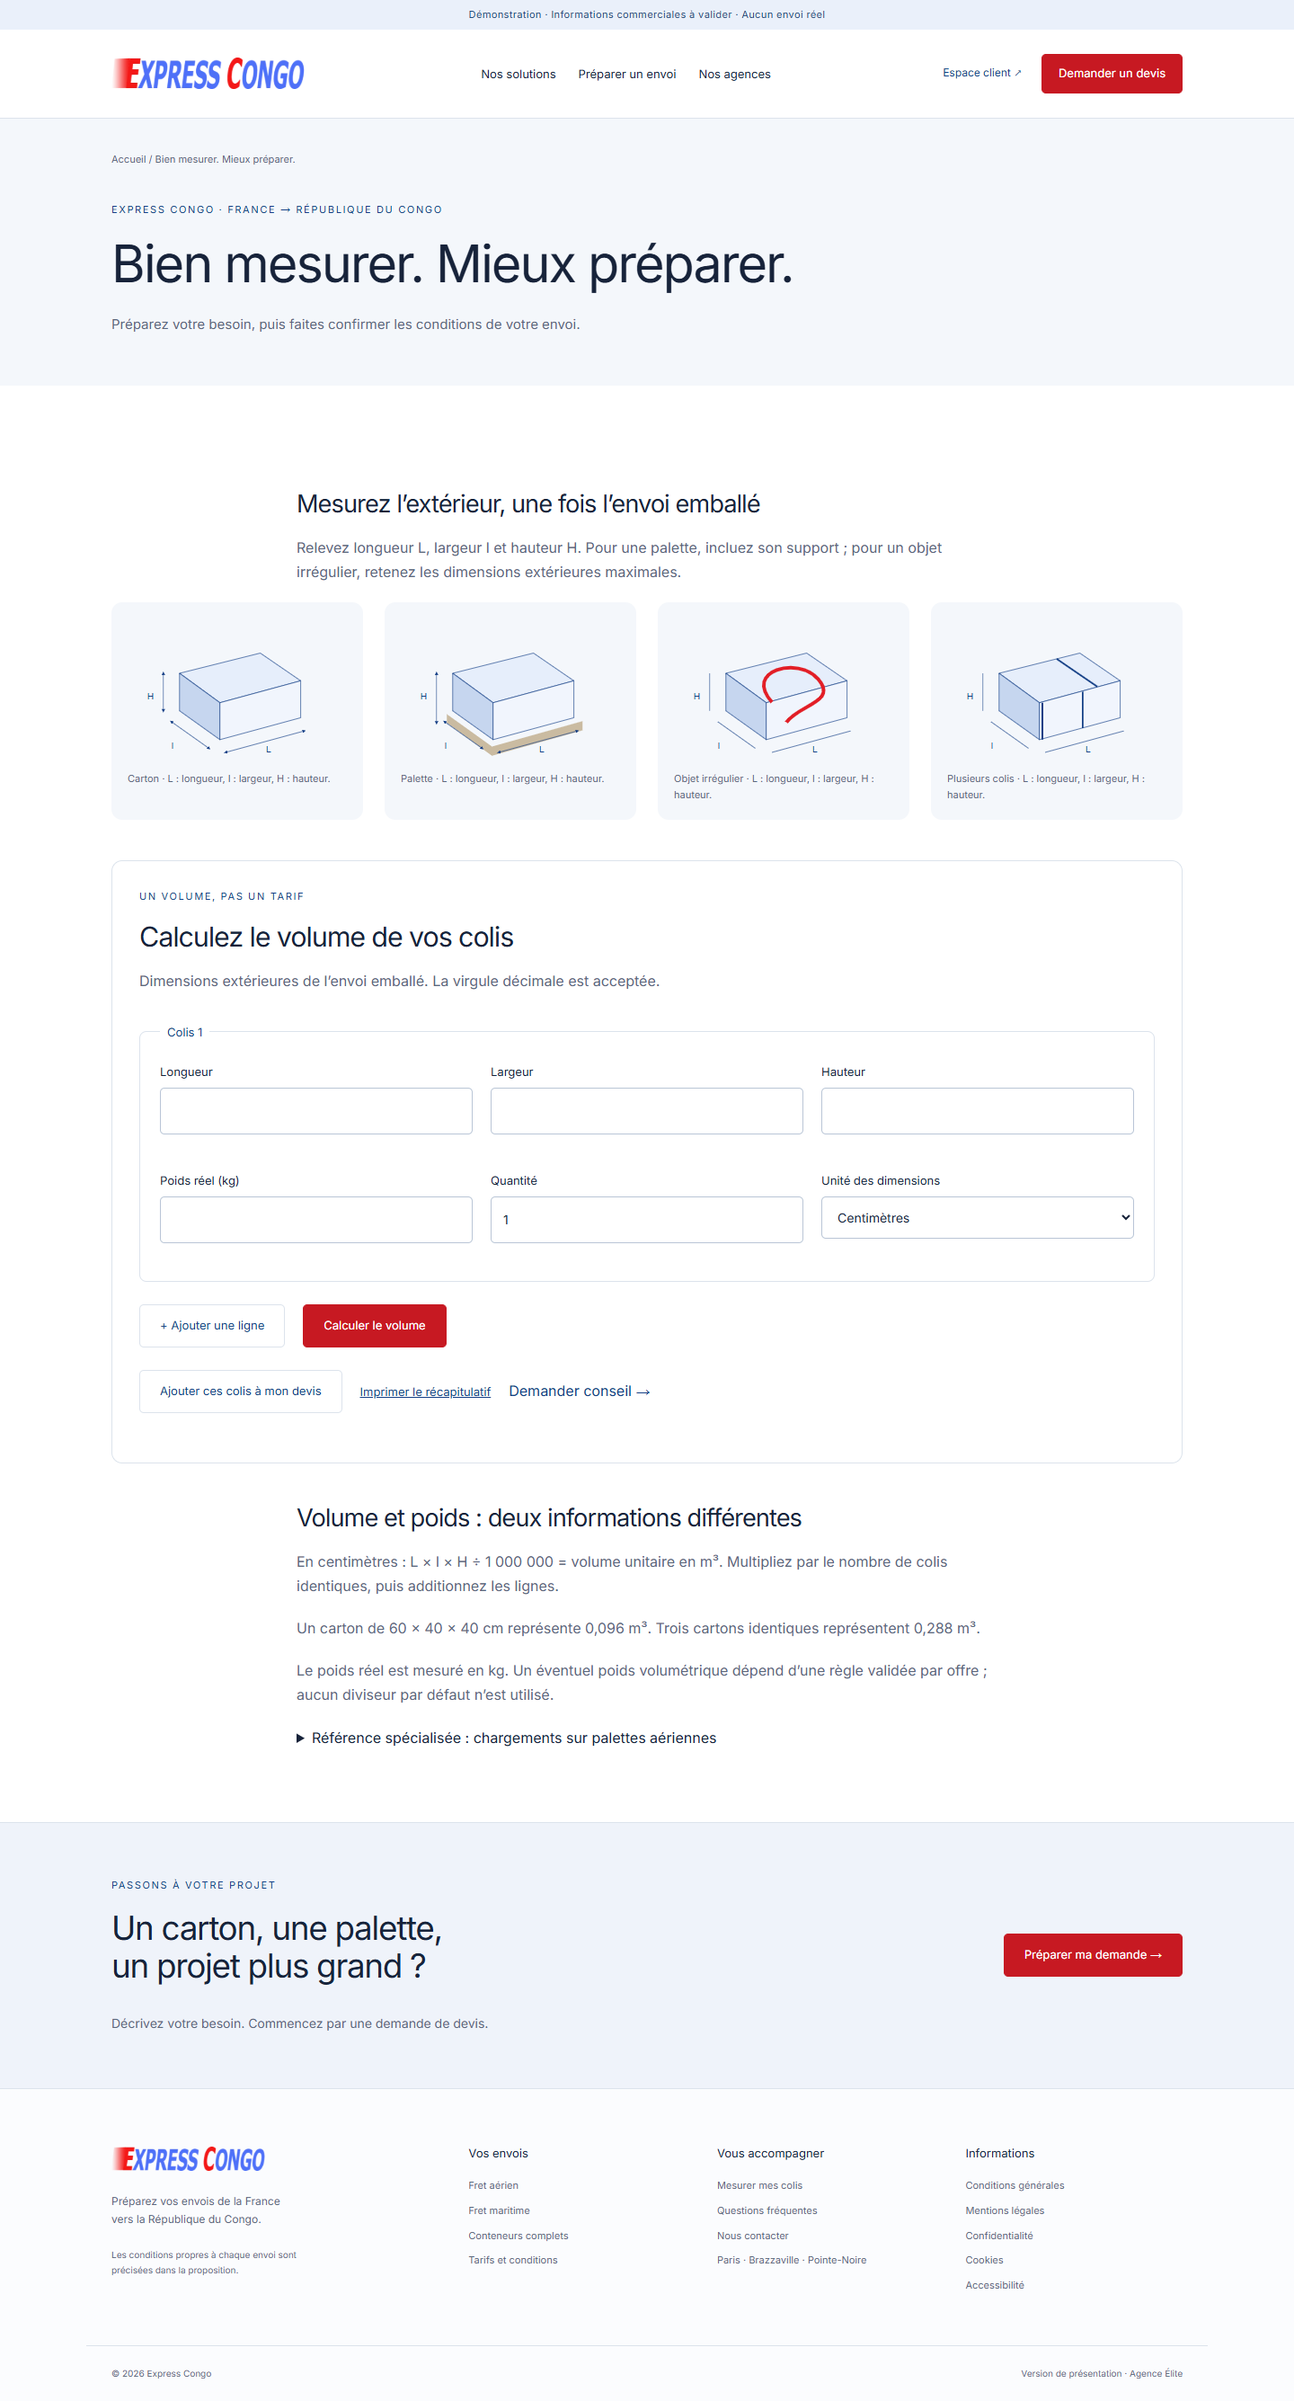
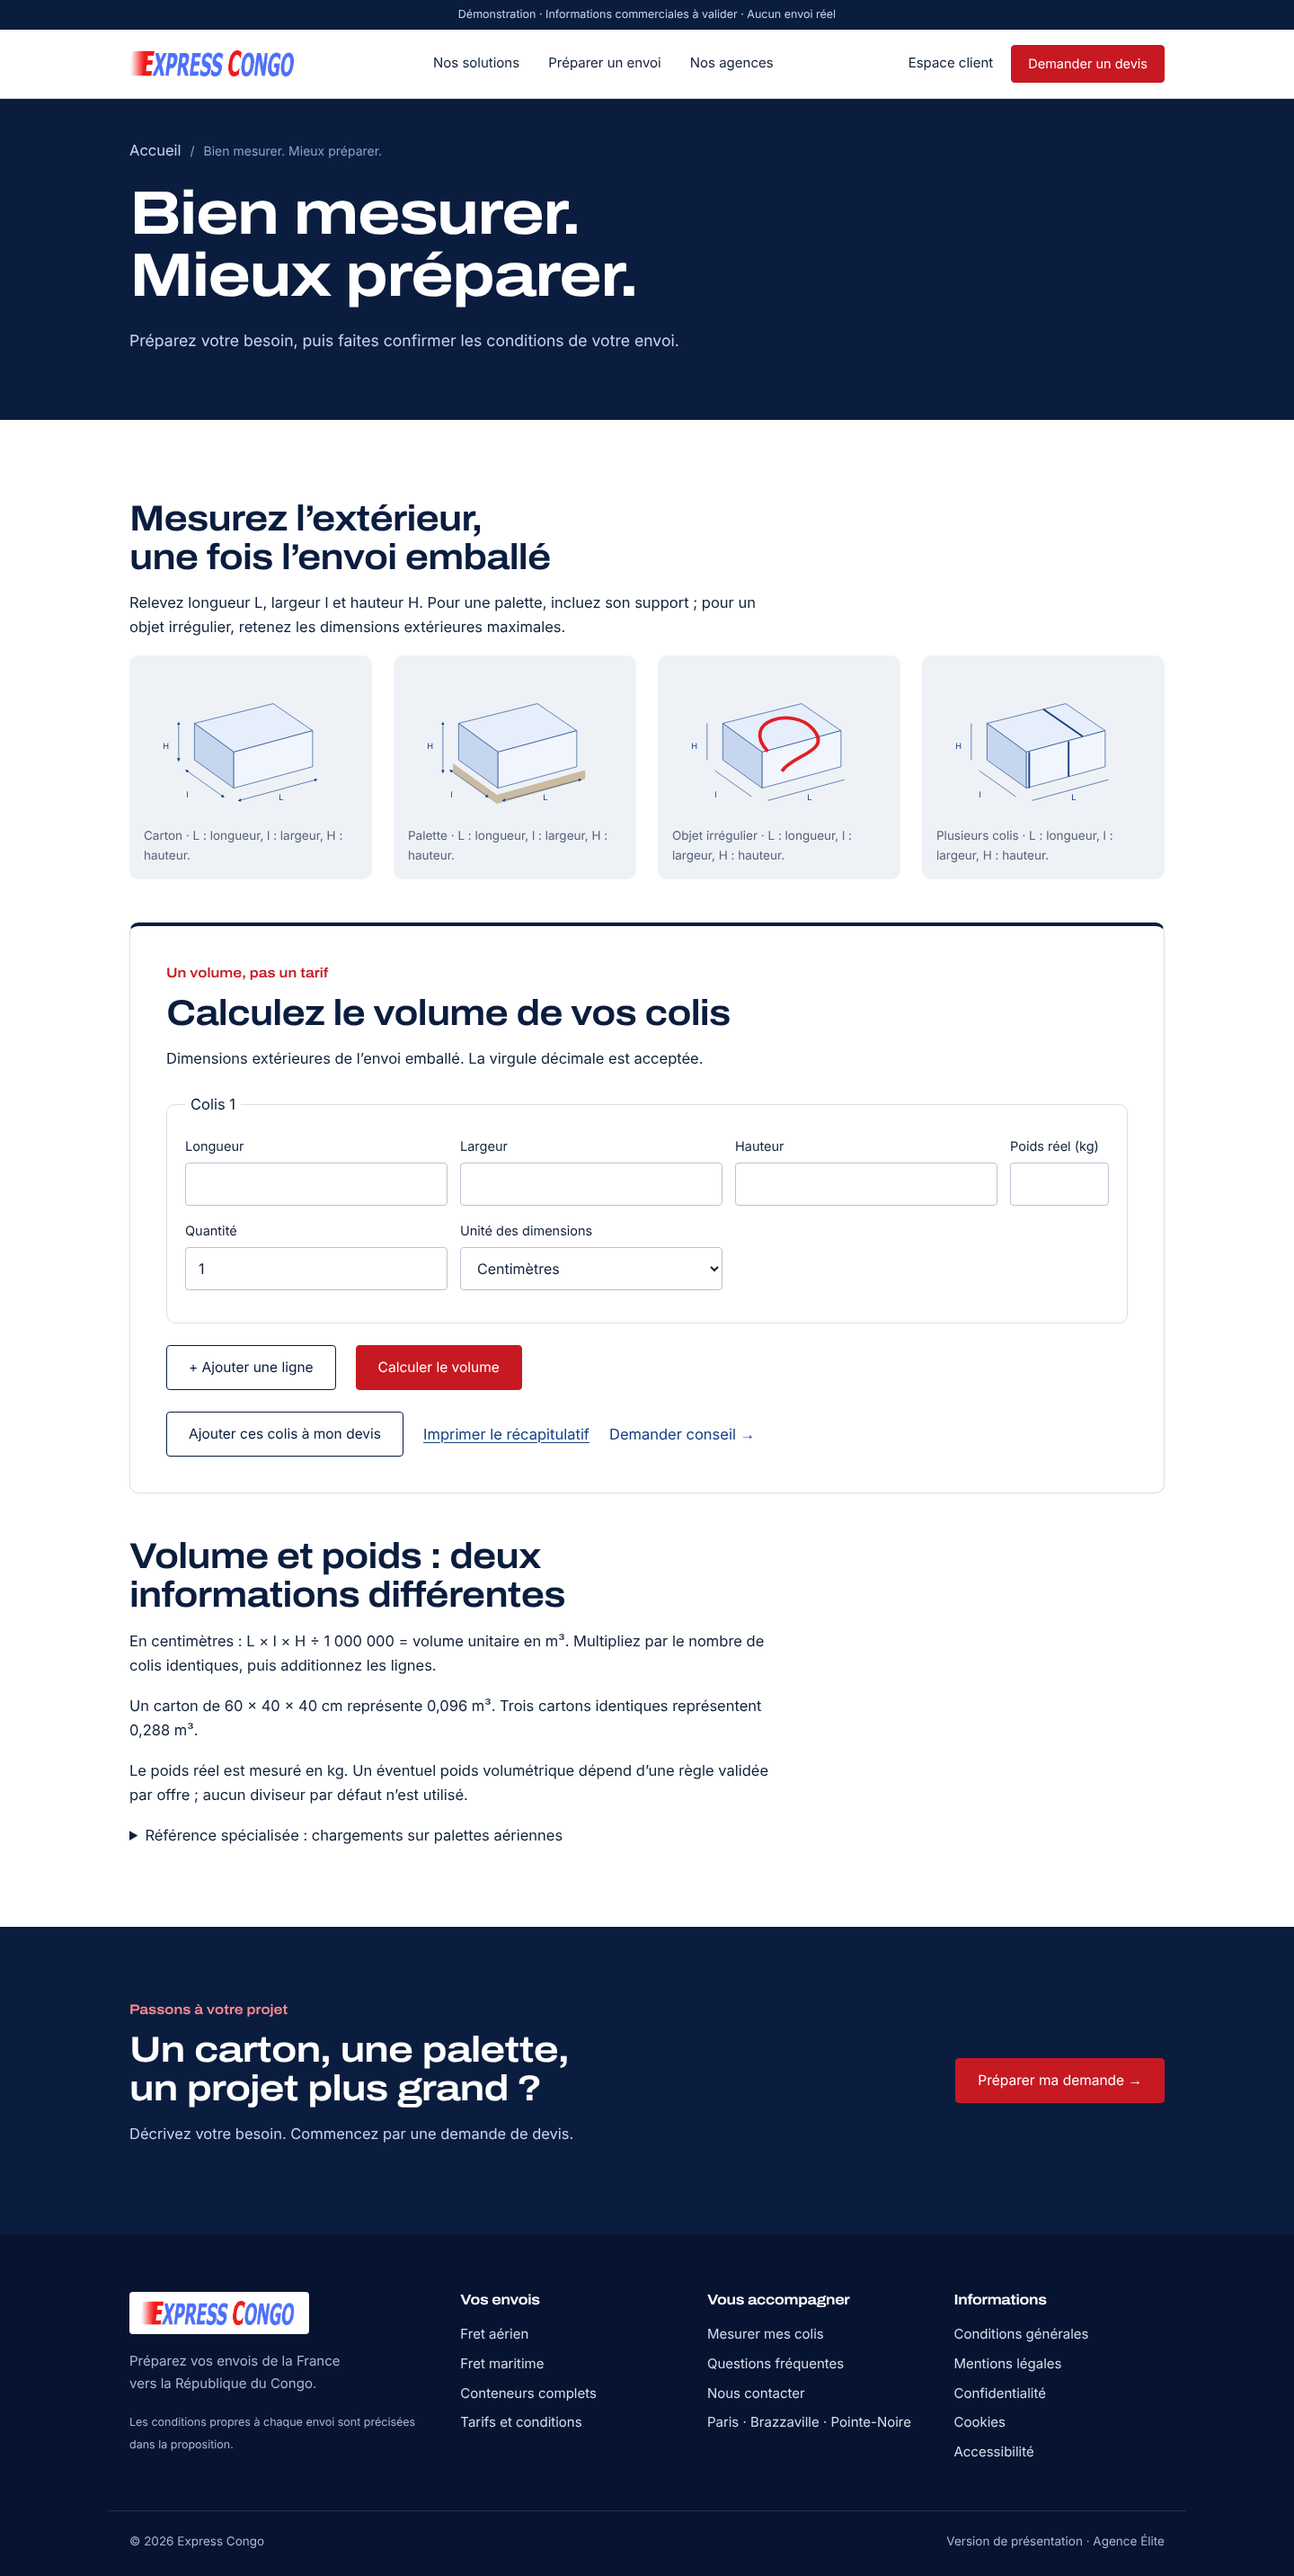
docs(passation): refonte, logiciel de gestion et captures à jour
Claude-Session: https://claude.ai/code/session_01YNamhidRyBwRSRShvDZRVq

diff --git a/sites-clients/express-congo/DECISIONS.md b/sites-clients/express-congo/DECISIONS.md
@@ -19,3 +19,17 @@
 | Horaires et réseau observés | Ajoutés au contenu avec statut OBSERVÉ, masqués en production            | Horaires publiés sur /contact/ et page Facebook relevés le 8 octobre 2026 ; restent soumis à EC-003 et EC-005                                                                   |
 
 Le noyau opérationnel utilise des comptes fictifs préétablis, scrypt et des sessions hachées avec permissions par propriétaire/agence. Le second facteur administrateur est explicitement une simulation ; la cible exige encore Auth éprouvée/MFA. ESLint reste en 9.39.5 pour respecter les versions prises en charge par les plugins Next ; TypeScript est en 6.0.3. npm, utilisé pour préparer cette machine sans CLI standard, a été retiré des dépendances du projet.
+
+## Refonte visuelle et logiciel de gestion — reprise Claude, 8 octobre 2026
+
+| Contexte                                 | Décision                                                                                                                                    | Alternatives et justification                                                                                                   |
+| ---------------------------------------- | ------------------------------------------------------------------------------------------------------------------------------------------- | ------------------------------------------------------------------------------------------------------------------------------- |
+| Design jugé trop générique par le client | Typographie large Archivo (OFL, auto-hébergée) pour les titres, Inter pour le texte ; bleu nuit #0B1D3F dominant, rouge réservé aux actions | Évoque la signalétique aérienne et portuaire du fret. Aucune police distante (CSP font-src self)                                |
+| Bannières du site actuel                 | Non réutilisées en premier écran ; tracé schématique Paris → Brazzaville / Pointe-Noire en SVG, positions tirées des coordonnées réelles    | Montages basse résolution ; la bannière aérienne montre une compagnie identifiable, interdit comme preuve de partenariat (§2.2) |
+| Numérotation 01/02/03 des services       | Supprimée ; conservée pour les quatre étapes                                                                                                | Les services ne sont pas une séquence                                                                                           |
+| Back-office « type Zoho Books »          | Application à barre latérale groupée, tableau de bord, fiches latérales, filtres, export CSV, rapports                                      | Les chiffres viennent uniquement des dossiers visibles par le rôle ; aucun indicateur fictif                                    |
+| Demandes web dans la gestion             | `src/server/backoffice.ts` : vue filtrée par rôle et agence, changement d’état hors transaction des opérations                              | Même connexion SQLite que `operation()` : une transaction imbriquée bloquerait                                                  |
+| Graphiques                               | Une seule série par graphique, une teinte, valeurs visibles et info-bulle                                                                   | Pas de palette catégorielle à valider ; états avec libellé et couleur de statut                                                 |
+| Export CSV                               | Généré dans le navigateur à partir des lignes déjà autorisées par le serveur, séparateur « ; », BOM UTF-8                                   | Ouverture directe dans Excel français ; aucun export de données hors périmètre                                                  |
+| Applications installables                | Deux manifestes, icône tirée du « E » rouge du logo officiel, sans service worker                                                           | Pas de cache hors ligne de documents privés (§14)                                                                               |
+| Réception d’un colis                     | Mesures déclarées et mesurées en deux blocs, dimensions mesurées facultatives (reprennent les déclarées)                                    | Comble l’écart signalé dans HANDOFF : l’API acceptait déjà toutes les dimensions contrôlées                                     |

diff --git a/sites-clients/express-congo/TEST_REPORT.md b/sites-clients/express-congo/TEST_REPORT.md
@@ -57,3 +57,15 @@ Environnement : Linux, Node.js 22.22.0, Chrome installé, APP_ENV=demo, aucun co
 Écart corrigé : sans barre finale, /a-propos/, /services/, /contact/, /cgv/ et /mentions-legales/ redirigeaient, et /2025/07/30/comment-prendre-les-mesures/ faisait deux sauts. Le scénario de redirections teste désormais les URL exactes du sitemap WordPress, les deux PDF historiques et l’absence de redirection des pages conservées.
 
 Constat non corrigé : `npx prettier --check .` signale 262 fichiers déjà non formatés avant la reprise. Seuls les fichiers modifiés ont été formatés.
+
+## Refonte et logiciel de gestion — 8 octobre 2026
+
+| Commande                         | Résultat exécuté                                                                                             |
+| -------------------------------- | ------------------------------------------------------------------------------------------------------------ |
+| npm run check                    | Types, lint et 23 tests métier réussis                                                                       |
+| CI=1 npx playwright test         | 13 scénarios réussis, dont le nouveau « demandes web : traitement contrôlé côté serveur et tableau de bord » |
+| npm run demo:dataset             | 8 expéditions, 5 propositions, 4 demandes web créées via les API, toutes règles métier respectées            |
+| npm run capture:local            | Captures régénérées ; LCP laboratoire 912 ms, CLS 0,0007 (accueil mobile, réseau limité)                     |
+| Contrôle de débordement à 390 px | Aucune page publique ni écran de gestion plus large que l’écran                                              |
+
+Nouveau scénario : un client reçoit 403 en tentant de changer l’état d’une demande web, une transition interdite (nouveau → acceptée) renvoie 422, l’administrateur passe la demande en étude, puis l’interface affiche le tableau de bord et la fiche avec l’étape suivante proposée.

diff --git a/sites-clients/express-congo/HANDOFF.md b/sites-clients/express-congo/HANDOFF.md
@@ -30,6 +30,14 @@ Le projet n’est **pas une plateforme de production terminée**. Le site public
 
 Vérification indépendante : check, build, garde-fou production et 12 scénarios navigateur rejoués avec succès. Corrigé : barre finale des URL (anciennes adresses WordPress conservées sans redirection, un seul saut pour l’article de mesures) ; horaires publiés et page Facebook ajoutés en OBSERVÉ, masqués en production. Formatage Prettier global non conforme (262 fichiers) déjà présent, non traité.
 
+## Refonte visuelle et logiciel de gestion (Claude, 8 octobre 2026)
+
+- Site public : nouveau système visuel, accueil avec tracé France → Congo et accès directs (devis, volume, agence), numéros formatés, étapes de devis lisibles.
+- Gestion `/demo` : tableau de bord (À faire, propositions par devise, expéditions par étape, activité 14 jours, prochains départs, dernières demandes web), modules Demandes web (traitement des états), Clients, Rapports (volume et poids par agence, chargement par départ, expéditions par étape), Journal d’activité (administrateur). Fiches latérales avec chronologie et actions préremplies ; filtres, tri, export CSV.
+- Applications installables : site client et logiciel de gestion (manifestes + icônes).
+- `npm run demo:dataset` remplit la démonstration via les vraies API.
+- Reste partiel : la gestion utilise toujours les comptes et le stockage de démonstration ; production bloquée jusqu’à EC-025. Pas de paiement, pas de notifications réelles.
+
 ## Dernières vérifications
 
 `npm run check` : types, lint et **23 tests métier/intégration locaux réussis**. `npm run test:e2e` : build optimisé de démonstration et **12 scénarios navigateur réussis**, dont réception → départ → remise, accès inter-clients/inter-agences, PDF, QR et manifeste. Voir TEST_REPORT.md pour les commandes, corrections et limites.

diff --git a/sites-clients/express-congo/README.md b/sites-clients/express-congo/README.md
@@ -33,6 +33,24 @@ Le portail de démonstration est accessible à `/demo`. Comptes : `client-a@exam
 
 Les devis sont persistés atomiquement avec leurs pièces en quarantaine et une clé d’idempotence. Les pièces ne sont pas téléchargeables, faute d’analyse connectée. Aucun email, paiement ou suivi réel n’est simulé.
 
+## Logiciel de gestion (démonstration)
+
+`/demo` est conçu comme un logiciel de bureau : barre latérale par domaine (Ventes, Opérations, Support, Analyse), tableau de bord « À faire », demandes web du site, propositions, clients, expéditions, colis, départs, historique, assistance, rapports de chargement et journal d’activité (administrateur). Fiches détaillées avec chronologie, filtres, tri et export CSV des dossiers visibles. Toutes les permissions restent appliquées côté serveur.
+
+Pour remplir la démonstration avec un jeu fictif complet (8 expéditions, 5 propositions, 4 demandes web), serveur lancé :
+
+```bash
+npm run db:reset && npm run db:seed:demo   # serveur arrêté
+npm run start                               # dans un autre terminal
+npm run demo:dataset
+```
+
+Le script passe par les mêmes API que l’interface : chaque dossier respecte les transitions, mesures et permissions.
+
+## Applications installables
+
+Le site client (`/manifest.webmanifest`) et le logiciel de gestion (`/gestion.webmanifest`, ouverture sur `/demo/`) s’installent depuis Chrome ou Edge (« Installer l’application ») sur PC, et depuis le navigateur du téléphone. Aucun service worker : aucune page ni document privé n’est mis en cache hors ligne. En production, le manifeste de gestion devra pointer vers l’administration réelle une fois l’authentification raccordée (EC-025).
+
 ## Base PostgreSQL préparée
 
 Docker Compose est un outil de préparation distinct de l’adaptateur SQLite utilisé par l’application locale.

diff --git a/sites-clients/express-congo/CLAUDE.md b/sites-clients/express-congo/CLAUDE.md
@@ -7,7 +7,8 @@ Lis d’abord HANDOFF.md, puis le cahier des charges v2 et TEST_REPORT.md. Ne su
 - src/app : pages SSR Next.js, API, erreurs, indexation.
 - src/components : interface publique, devis progressif, calculateur, gestion locale.
 - src/domain : volumes exacts, validation devis, tarification versionnée pure.
-- src/server : SQLite transactionnel, idempotence, limitation, sessions locales, opérations et permissions.
+- src/server : SQLite transactionnel, idempotence, limitation, sessions locales, opérations et permissions. backoffice.ts : demandes web et journal pour la gestion.
+- src/components/operations.tsx + backoffice/ : logiciel de gestion (tableau de bord, listes, fiches, rapports, graphiques).
 - src/content/public.json : propositions éditoriales et données observées.
 - assets : sources originales, PDF non validé, empreintes SHA-256.
 - public : médias servis, police Inter et licence OFL.

diff --git a/sites-clients/express-congo/docs/PERFORMANCE.md b/sites-clients/express-congo/docs/PERFORMANCE.md
@@ -1,9 +1,9 @@
-# Vérification locale, 2026-10-08T09:10:03.239Z
+# Vérification locale, 2026-10-08T10:26:09.520Z
 
 Laboratoire uniquement : Chrome, viewport 390 × 900, latence 150 ms, téléchargement 75 000 octets/s, upload 37 500 octets/s, cache navigateur neuf. Ce n’est pas une mesure au 75e percentile d’utilisateurs réels.
 
-- LCP observé : 984 ms.
-- CLS observé : 0.0001.
+- LCP observé : 912 ms.
+- CLS observé : 0.0007.
 - INP : non mesuré.
 - Premier Tab atteint le lien d’évitement : oui.
 
